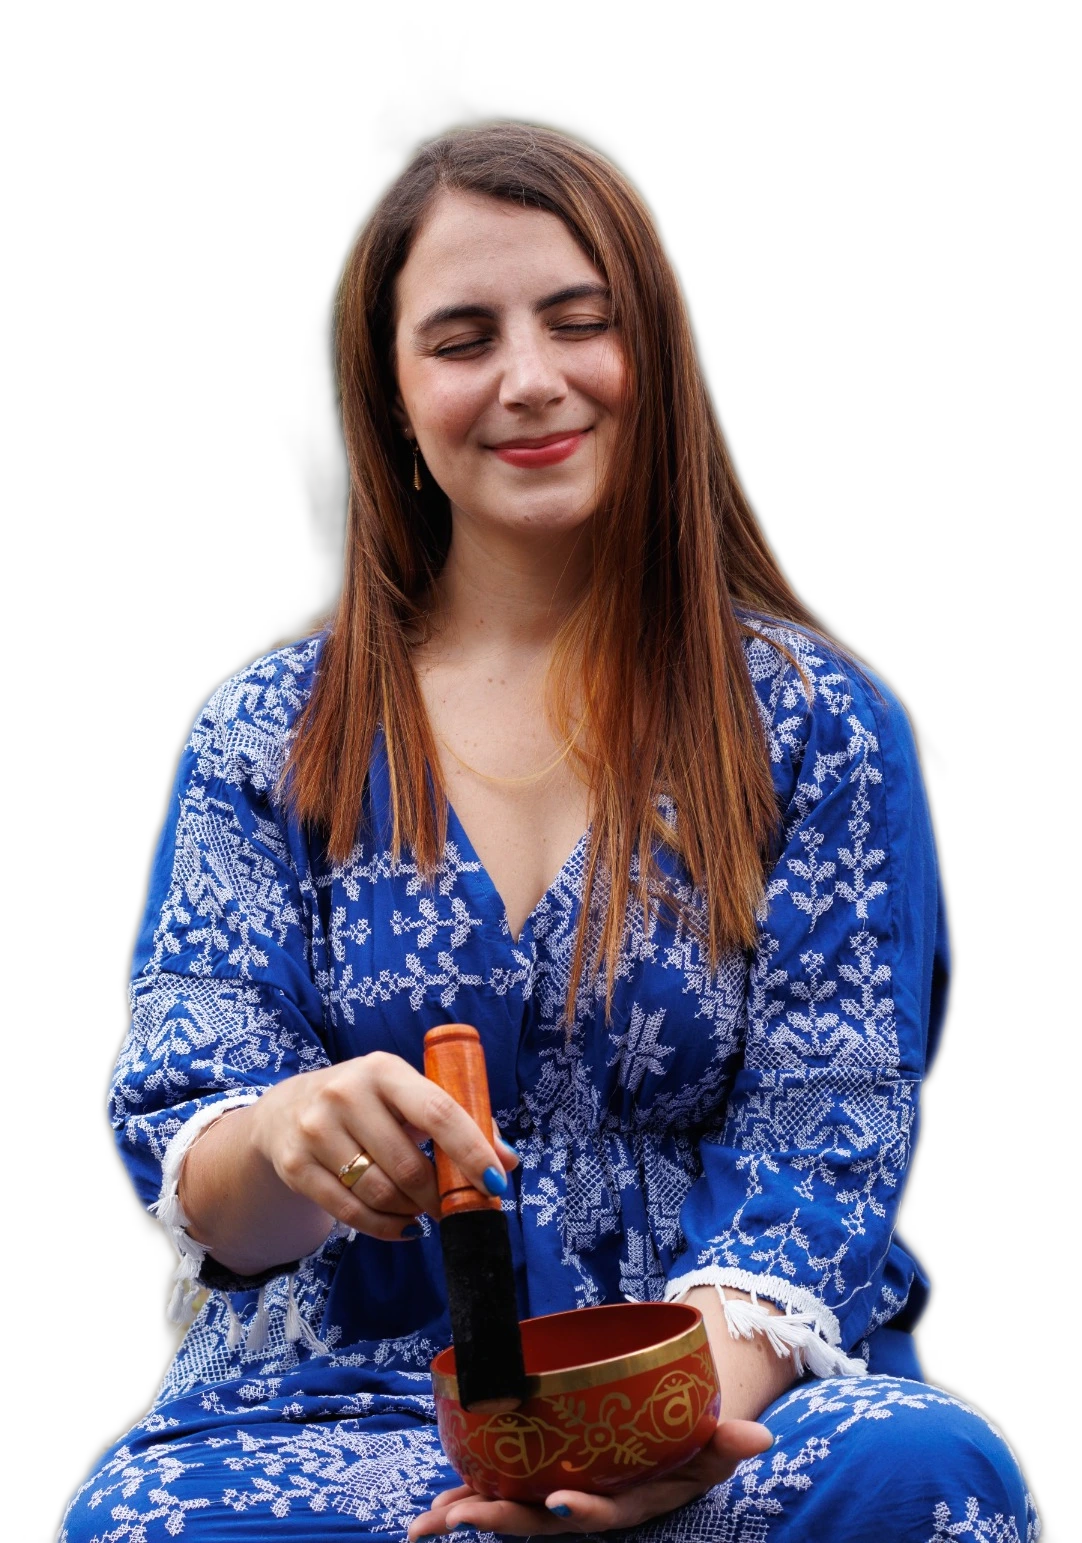
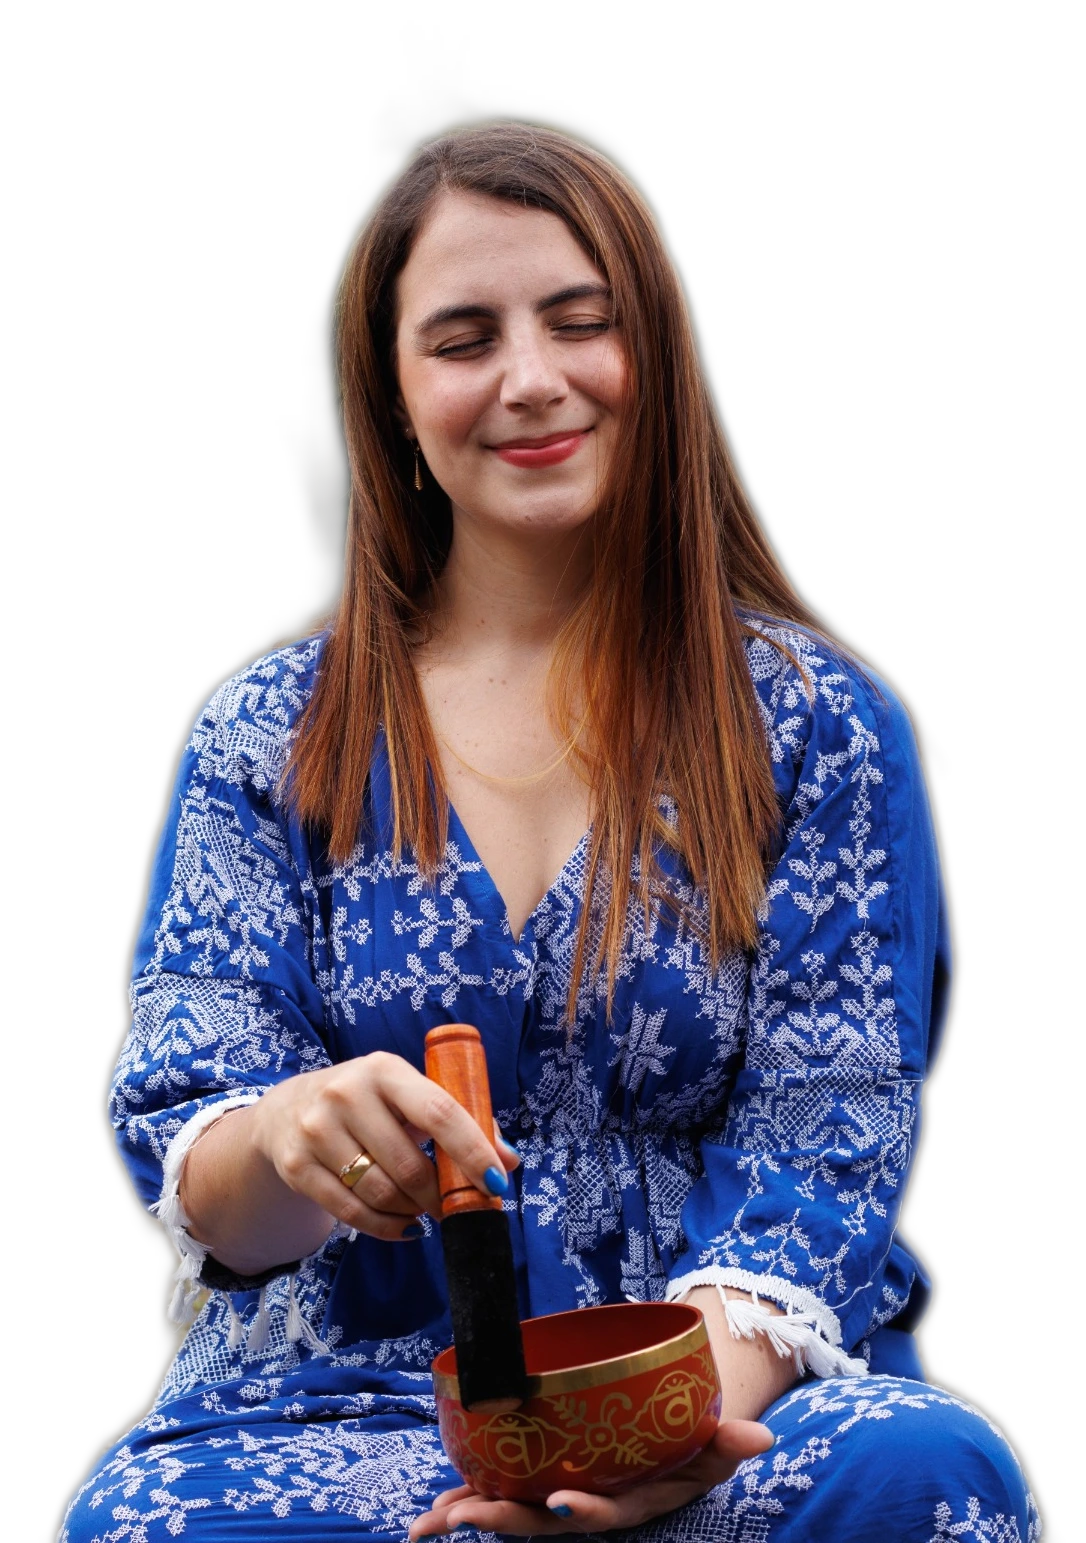
Foto del hero más grande y bordes más difuminados (feedback: se veía pegado)

diff --git a/index.html b/index.html
@@ -79,7 +79,7 @@
     filter: blur(2px); z-index: 0;
   }
   .hero-photo {
-    width: min(400px, 86vw); height: auto; object-fit: contain;
+    width: min(460px, 88vw); height: auto; object-fit: contain;
     filter: drop-shadow(0 26px 40px rgba(31,58,66,0.28));
     position: relative; z-index: 1; display: block;
   }
